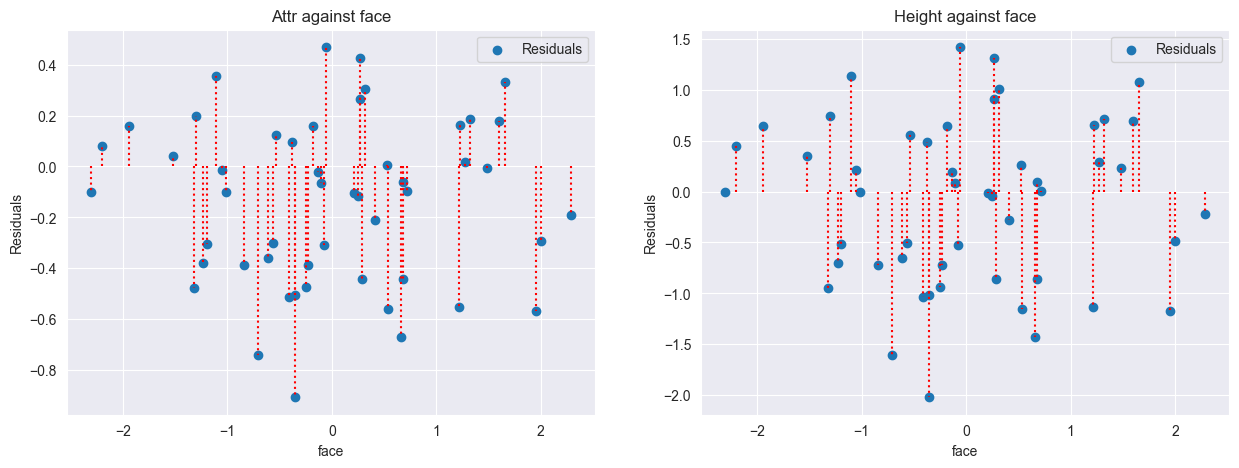
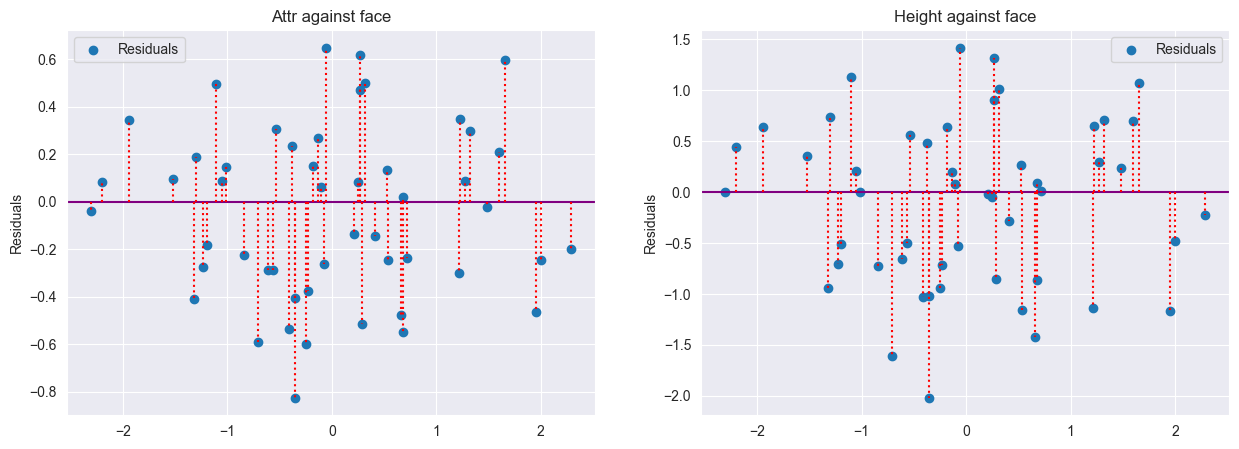
changes

diff --git a/_posts/2024-08-2-FWL.md b/_posts/2024-08-2-FWL.md
@@ -21,7 +21,7 @@ excerpt: "In this article, I take a look at the Frisch-Waugh-Lovell (FWL) theore
 
 So after doing some regression self-study, inspired by [_Chief Ridge Officer Quantymacro_](https://x.com/quantymacro), I decided to write a post to consolidate some of my learnings. To give context, these guys are part of _QuantTwit_, a collection of quants on $\mathbb{X}$. Now if there's anything I learned from reading $\mathbb{X}$, it's that quants have _tremendous respect_ for regression.
 
-The nature of the work involves quantifying relationships between noisy, high-dim, collinear, non-stationary data, and regression is the tool of choice. The FWL theorem lets us spruce up our interpretation of regression in a few ways that are useful.
+The nature of the work involves quantifying relationships between noisy, high-dim, collinear, non-stationary data, and regression fits the bill. The FWL theorem lets us spruce up our interpretation of regression in a few ways that are useful.
 
 While I am not a quant and work in commodities as a data scientist, I believe the power of regression should be equally useful in a Commodity Context (pun intended, ha ha).
 
@@ -38,7 +38,7 @@ Disclaimer: I'm just a scrub. Please feel free to correct mistakes.
 
 It's worth noting the theorem is less related to the computational aspects of regression (no matrix decomps like SVD involved in the derivation). I'll have a look at ridge regression and the SVD as per it's implementation in `statsmodels` in a future post.
 
-So what is it anyway? The theorem can be motivated by this question:
+The theorem can be motivated by this question:
 
 <!-- <center>
 <img src="{{ site.imageurl }}/FWL/2a.png" style="width:65%;"/>
@@ -48,23 +48,23 @@ So what is it anyway? The theorem can be motivated by this question:
 
 Intuitively, you would say _"if the new predictor is correlated to other predictors, the coefficients might change"_. Or conversely, _"if the new predictor is uncorrelated/orthogonal to the current ones, the coefficients remain the same"_.
 
-The FWL theorem formalizes this notion. It states the individual beta of a feature in a multiple regression is a partial effect: the effect of that variable after residualising/orthogonalising out the influence of the other predictors. For example, if we have 
+The FWL theorem formalizes this notion. It states the individual beta of a feature in a multiple regression is a partial effect: the effect of that variable after residualising/orthogonalising out the influence of the other predictors. If we have:
 
 $$Y=\beta_1X_1+ \beta_2X_2+\epsilon$$ 
 
-and want to isolate $\beta_1$, we can first regress $y \sim X_2$ and $X_1 \sim X_2$ and take the residuals, then regress first set of residuals on the second set. FWL theorem tells us the slope of this regression is our isolated beta $\beta_1$: 
+and want to isolate $\beta_1$, we can first regress $y \sim X_2$ and $X_1 \sim X_2$ and take their residuals, then regress first set of residuals on the second. FWL tells us the slope of this regression is our isolated beta $\beta_1$: 
 
 $$r(y \sim X_2)=\beta_1 r(y \sim X_1)$$
 
 This 'leave-one-out', 'residual-on-residual' style set of regressions can be done for each beta. But why residual?
 
-The residual of $\hat{y}{\| X_2}$ is the remaining value of our $y$ that cannot be 'explained' by $X_2$. The residual $\hat{X_1}{\| X_2}$ is the remaining part of the $X_1$ feature that is orthogonal to $X_2$. Regress the two sets of residuals, and you have found the 'pure' relationship between $X_1$ and $Y$ after partialling out correlations - orthogonalizing $y$ and $X_1$ w.r.t $X_2$. 
+The residual of $\hat{y}{\| X_2}$ is the remaining value of our $y$ that cannot be 'explained' by $X_2$. The residual $\hat{X_1}{\| X_2}$ is the remaining part of the $X_1$ feature that is orthogonal to $X_2$. Regress the two sets of residuals, and you have found the 'pure' relationship between $X_1$ and $Y$ after partialling out correlations - _orthogonalizing_ $y$ and $X_1$ w.r.t $X_2$. 
 
-So _in theory_, when you assess a single beta in a multiple regression, you don't need to worry about it's correlation to other features because it's correlation has been partialled out! _In practice_, this obviously is not the case, but that's why ridge/SVD is used.
+So _in theory_, assessing a single beta in a multiple regression, one need not worry about it's correlation to other features because it's correlation has been partialled out! _In practice_, this is not the case, but that's why ridge and SVD are used.
 
 ## The Proof
 
-I'm going to cite the proof from *Gregory Gundersen's blog* in his [OLS article](https://gregorygundersen.com/blog/2020/01/04/ols/). 
+I'm going to cite the proof from *Gregory Gundersen's blog* in his awesome [_OLS article_](https://gregorygundersen.com/blog/2020/01/04/ols/). 
 
 <center>
 <img src="{{ site.imageurl }}/FWL/gg.png" style="width:70%;"/>
@@ -120,21 +120,21 @@ Rearrange the terms:
 <img src="{{ site.imageurl }}/FWL/3h.png" style="width:90%;"/>
 </center>
 
-Notice this expression is similar to the normal equation for regressing $\textbf{y}$ on $\textbf{X}_2$ but with $\textbf{M}_1$ in front of $\textbf{y}$ and certain $\textbf{X}_2$ terms. Why not in front of the first $\textbf{X}_2$? Because $\textbf{M}_1$ is an orthogonal projection aka $\textbf{M}=\textbf{M}^2$ and also orthogonal so $\textbf{M}=\textbf{M}^T$. Applying $\textbf{M}_1$ to all the terms cancels out to form the above.
+Notice this expression is similar to the normal equation for regressing $\textbf{y}$ on $\textbf{X}_2$ but with $\textbf{M}_1$ in front of $\textbf{y}$ and certain $\textbf{X}_2$ terms. Why not in front of the first $\textbf{X}_2$? Because $\textbf{M}_1$ is an orthogonal projection aka $\textbf{M}=\textbf{M}^2$ and also orthogonal so $\textbf{M}=\textbf{M}^T$. 
 
-So the residual-on-residual idea of FWL can be expressed in terms of the residual maker matrix $\textbf{M}_1\textbf{y} = \textbf{M}_1\textbf{X}_2\hat{\beta_2} + \textbf{e}$. And that's the derivation.
+So the residual-on-residual idea of FWL can be expressed in terms of the residual maker matrix $\textbf{M}_1\textbf{y} = \textbf{M}_1\textbf{X}_2\hat{\beta_2} + \textbf{e}$.
 
 
 
 ## Why Is This Useful
 
-But who cares? Why is this useful? Here are some reasons (especially the first):
+But who cares? Why is this useful? Here are some reasons:
 
 * The interpretation of individual $\hat{\beta}_i$ after partialling out correlation effects. 
 * Relates geometry (orthogonalisation/residualisation) to removing correlation (assuming linear relationship). 
-* Viewing `sm.add_constant(X)` to the design matrix for an intercept as partitioned regression where $\textbf{X}_1=\textbf{1}$ which is equivalent to demeaning.
+* Viewing `sm.add_constant(X)` to the design matrix for an intercept as partitioned regression where $\textbf{X}_1=\textbf{1}$, equivalent to demeaning.
 
-Tree-based ML models (rf, xgb, gbm, cb etc) don't have this neat, elegant interpretation of coefficients! It would be interesting to compare feature importance of a tree-based model and betas of a least squares trained on the same data.
+Tree-based ML models (rf, xgb, etc) don't have this neat interpretation of coefficients! I'm not sure how feature importances compare to betas.
 
 <blockquote class="twitter-tweet" data-conversation="none"><p lang="en" dir="ltr">Essentially, subtracting the mean, i.e. centering the vector, is the same thing as orthogonalizing with respect to a constant term.<br><br>This is how we get to Var(x), and not just simply x².<br><br>Sweet! We now see how (X&#39;X)⁻¹ and 1/Var(x) are related.</p>&mdash; Senior PowerPoint Engineer (@ryxcommar) <a href="https://twitter.com/ryxcommar/status/1718434683032150444?ref_src=twsrc%5Etfw">October 29, 2023</a></blockquote> <script async src="https://platform.twitter.com/widgets.js" charset="utf-8"></script>
 
@@ -193,7 +193,11 @@ $$Attr \sim 1 Face + 0.4 Height + \epsilon$$
 That is, face contributes to attractiveness ~ twice that of height. However, face is highly collinear to height (0.7). We can simulate this dataset.
 
 ```python
-np.random.seed(69420)
+import numpy as np
+import pandas as pd
+import statsmodels.formula.api as smf
+np.random.seed(69)
+
 n = 50
 rho = 0.7
 beta1, beta2 = 1, 0.4
@@ -201,19 +205,19 @@ beta1, beta2 = 1, 0.4
 cov = np.array([1,rho,rho,1]).reshape(2,2)
 mu = np.array([0,0])
 
-exog = np.random.multivariate_normal(mu, cov, size=50)
-endog = beta1 * exog.T[0] + beta2 * exog.T[1] + np.random.normal(0,0.3)
+exog = np.random.multivariate_normal(mu, cov, size=n)
+endog = beta1 * exog.T[0] + beta2 * exog.T[1] + np.random.normal(0, 0.1, size=n)
 
 df = pd.DataFrame(np.column_stack((exog, endog)), columns=['face', 'height', 'attr'])
 
-hf = smf.OLS('height ~ face', data=df, hasconst=False).fit()
-fh = smf.OLS('face ~ height', data=df, hasconst=False).fit()
-ah = smf.OLS('attr ~ height', data=df, hasconst=False).fit()
-af = sm.OLS('attr ~ face', data=df hasconst=False).fit()
+hf = smf.ols('height ~ face', data=df).fit()
+fh = smf.ols('face ~ height', data=df).fit()
+ah = smf.ols('attr ~ height', data=df).fit()
+af = smf.ols('attr ~ face', data=df).fit()
 ```
 
 
-Plotting individual simple regressions of face and height, we see the individual betas are over-estimated because of the correlation between the two.
+Plotting individual simple regressions of face and height, we see the individual betas are over-estimated because of the correlation between the two (height beta is 1.07 vs 0.4)
 
 <center>
 <img src="{{ site.imageurl }}/FWL/7a.png" style="width:100%;"/>
@@ -231,8 +235,7 @@ We are left with the residuals, the variation of height and attractiveness that 
 <img src="{{ site.imageurl }}/FWL/7c.png" style="width:100%;"/>
 </center>
 
-Regressing the orthogonalized (w.r.t face) variables (residuals), demeaned, against each other, we recover the original height beta in the true relationship:
-
+Regressing the orthogonalized (w.r.t face) variables (residuals), demeaned, against each other, we recover the original height beta in the true relationship ($\pm$ the standard error due to small $n$):
 <center>
 <img src="{{ site.imageurl }}/FWL/7d.png" style="width:50%;"/>
 </center>
@@ -245,6 +248,9 @@ That concludes this short article! For further investigation, I'd very much like
 
 But I'll work on that slowly.
 
-For now, the FWL theorem provides us with essential intuition about key facets of multiple regression without going into any implementation details yet. Having discovered it two weeks ago while going through the regression part of ESL and EQI, it's nice that Gundersen and RyxCommar have very good online resources to explain the theorem.
+For now, the FWL theorem provides us with essential intuition about key facets of multiple regression without going into any implementation details yet. 
 
-I'll look at ridge regression (from [_QM articles_](https://www.quantymacro.com/advanced-ridge-regression/) of course) and how `statsmodels` implements it under the hood with SVD. In particular, to see how it deals with collinearity, and how to determine regularization strength. 
+<blockquote class="twitter-tweet"><p lang="en" dir="ltr">To understand FWL is to understand a key intuition of what multiple regression is actually doing.</p>&mdash; Senior PowerPoint Engineer (@ryxcommar) <a href="https://twitter.com/ryxcommar/status/1673459506058084352?ref_src=twsrc%5Etfw">June 26, 2023</a>
+</blockquote> <script async src="https://platform.twitter.com/widgets.js" charset="utf-8"></script>
+
+(Caption: _Me desperately trying to justify why I spent so much time writing this damn post_) I'll look at ridge regression (from [_QM articles_](https://www.quantymacro.com/advanced-ridge-regression/) of course) and how `statsmodels` implements it under the hood with SVD. In particular, to see how it deals with collinearity, and how to determine regularization strength. 
